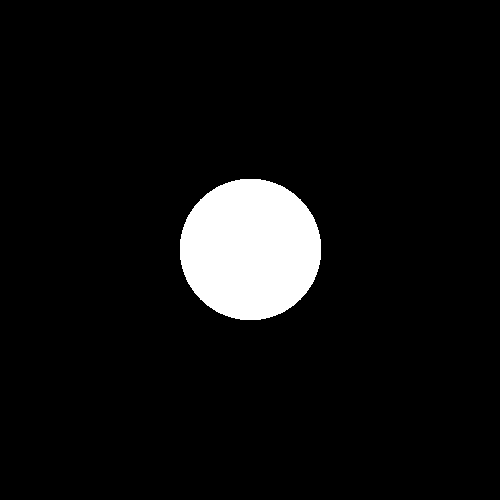
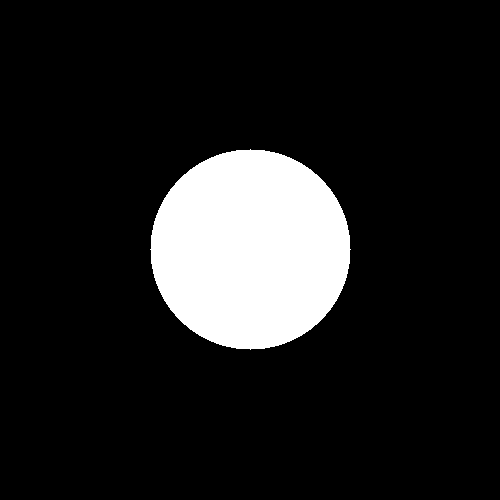
Ajout du README

Changed region(s): [[0.3, 0.3, 0.72, 0.72]]

diff --git a/src/main.cpp b/src/main.cpp
@@ -3,7 +3,6 @@
 #include <cmath>
 #include <algorithm>
 #include <complex>
-#include <glm/gtx/matrix_transform_2d.hpp>
 
 void keep_green_only(sil::Image &image)
 {
@@ -122,7 +121,6 @@ sil::Image rotate(sil::Image &image)
     return new_image;
 }
 
-// A REVOIR
 void rgb_split(sil::Image &image)
 {
     sil::Image imageRef = image;
@@ -493,7 +491,7 @@ int main()
     //  gradient(image);
 
     sil::Image image{500 /*width*/, 500 /*height*/};
-    animation(image);
+    disque(image);
     // rosace(image);
 
     // sil::Image image{"images/logo.png"};
@@ -502,5 +500,5 @@ int main()
 
     // sil::Image image{"images/photo.jpg"};
     // tramage(image);
-    //image.save("output/test.png");
+    image.save("output/test.png");
 }

diff --git a/README.md b/README.md
@@ -1,0 +1,271 @@
+
+# Rapport de rendu — WORSHOP Prog et Algo
+
+**Nom :** Pauline Quérard    
+
+
+---
+
+## Exercice 1 — Keep Green Only
+
+
+| Image avant | Image après |
+|:---:|:---:|
+| ![Avant](images/logo.png) | ![Après](output/keep_green_only.png) |
+
+**Fonctionnement de l'algorithme :**
+
+
+
+---
+
+## Exercice 2 — Channels Swap
+
+| Image avant | Image après |
+|:---:|:---:|
+| ![Avant](images/logo.png) | ![Après](output/channels_swap.png) |
+
+**Fonctionnement de l'algorithme :**
+
+---
+
+## Exercice 3 — Black and White
+
+| Image avant | Image après |
+|:---:|:---:|
+| ![Avant](images/logo.png) | ![Après](output/black_and_white.png) |
+
+**Fonctionnement de l'algorithme :**
+
+
+---
+
+## Exercice 4 — Negatif
+
+| Image avant | Image après |
+|:---:|:---:|
+| ![Avant](images/logo.png) | ![Après](output/negatif.png) |
+
+**Fonctionnement de l'algorithme :**
+
+
+---
+
+## Exercice 5 — Gradient
+
+| Dégradé |
+|:---:|
+| ![Avant](output/gradient.png) |
+
+**Fonctionnement de l'algorithme :**
+
+
+---
+
+## Exercice 6 — Mirror
+
+| Image avant | Image après |
+|:---:|:---:|
+| ![Avant](images/logo.png) | ![Après](output/mirror.png) |
+
+**Fonctionnement de l'algorithme :**
+
+
+---
+
+## Exercice 7 — Noise
+
+| Image avant | Image après |
+|:---:|:---:|
+| ![Avant](images/logo.png) | ![Après](output/noise.png) |
+
+**Fonctionnement de l'algorithme :**
+
+
+---
+
+## Exercice 8 — Rotate
+
+| Image avant | Image après |
+|:---:|:---:|
+| ![Avant](images/logo.png) | ![Après](output/rotate.png) |
+
+**Fonctionnement de l'algorithme :**
+
+
+---
+
+## Exercice 9 — RGB Split
+
+| Image avant | Image après |
+|:---:|:---:|
+| ![Avant](images/logo.png) | ![Après](output/rgb_split.png) |
+
+**Fonctionnement de l'algorithme :**
+
+
+---
+
+## Exercice 10 — Brightness
+
+| Image avant | Image éclaicissement | Image assombrissement |
+|:---:|:---:|:---:|
+| ![Avant](images/photo.jpg) | ![Après](output/eclaircissement.png) | ![Après](output/assombrissement.png) |
+
+**Fonctionnement de l'algorithme :**
+
+
+---
+
+## Exercice 11 — Disque
+
+| Disque |
+|:---:|
+| ![Apres](output/disque.png) |
+
+**Fonctionnement de l'algorithme :**
+
+
+---
+
+## Exercice 12 — Circle
+
+| Circle |
+|:---:|
+| ![Apres](output/circle.png) |
+
+**Fonctionnement de l'algorithme :**
+
+
+---
+
+## Exercice 13 — Animation
+
+| Animation |
+|:---:|
+| ![Apres](output/animation/animation.gif) |
+
+**Fonctionnement de l'algorithme :**
+
+
+---
+
+## Exercice 14 — Rosace
+
+| Rosace |
+|:---:|
+| ![Apres](output/rosace.png) |
+
+**Fonctionnement de l'algorithme :**
+
+
+---
+
+## Exercice 15 — Mosaique
+
+| Image avant | Image après |
+|:---:|:---:|
+| ![Avant](images/logo.png) | ![Après](output/mosaique.png) |
+
+**Fonctionnement de l'algorithme :**
+
+
+---
+
+## Exercice 16 — Mosaique Mirror
+
+| Image avant | Image après |
+|:---:|:---:|
+| ![Avant](images/logo.png) | ![Après](output/mosaique_mirror.png) |
+
+**Fonctionnement de l'algorithme :**
+
+
+---
+
+## Exercice 17 — GLitch
+
+| Image avant | Image après |
+|:---:|:---:|
+| ![Avant](images/logo.png) | ![Après](output/glitch.png) |
+
+**Fonctionnement de l'algorithme :**
+
+---
+
+## Exercice 18 — Tri pixels
+
+| Image avant | Image après |
+|:---:|:---:|
+| ![Avant](images/logo.png) | ![Après](output/tri_pixel.png) |
+
+**Fonctionnement de l'algorithme :**
+
+---
+
+## Exercice 19 — Tri lignes
+
+| Image avant | Image après |
+|:---:|:---:|
+| ![Avant](images/logo.png) | ![Après](output/tri_ligne.png) |
+
+**Fonctionnement de l'algorithme :**
+
+---
+
+## Exercice 20 — Tri aléatoire
+
+| Image avant | Image après |
+|:---:|:---:|
+| ![Avant](images/logo.png) | ![Après](output/random_tri.png) |
+
+**Fonctionnement de l'algorithme :**
+
+---
+
+## Exercice 21 — Fractale
+
+| Fractale |
+|:---:|
+| ![Apres](output/fractale.png) |
+
+**Fonctionnement de l'algorithme :**
+
+
+---
+
+## Exercice 22 — Color Gradient
+
+| Color Gradient |
+|:---:|
+| ![Apres](output/color_gradient_1.png) |
+
+**Fonctionnement de l'algorithme :**
+
+
+---
+
+## Exercice 23 — Tramage
+
+| Image avant | Image après |
+|:---:|:---:|
+| ![Avant](images/photo.jpg) | ![Après](output/tramage.png) |
+
+**Fonctionnement de l'algorithme :**
+
+---
+
+## Exercice 24 — Box Blur
+
+| Image avant | Image après |
+|:---:|:---:|
+| ![Avant](images/logo.png) | ![Après](output/box_blur.png) |
+
+**Fonctionnement de l'algorithme :**
+
+---
+
+
+## Bilan 
+
+
